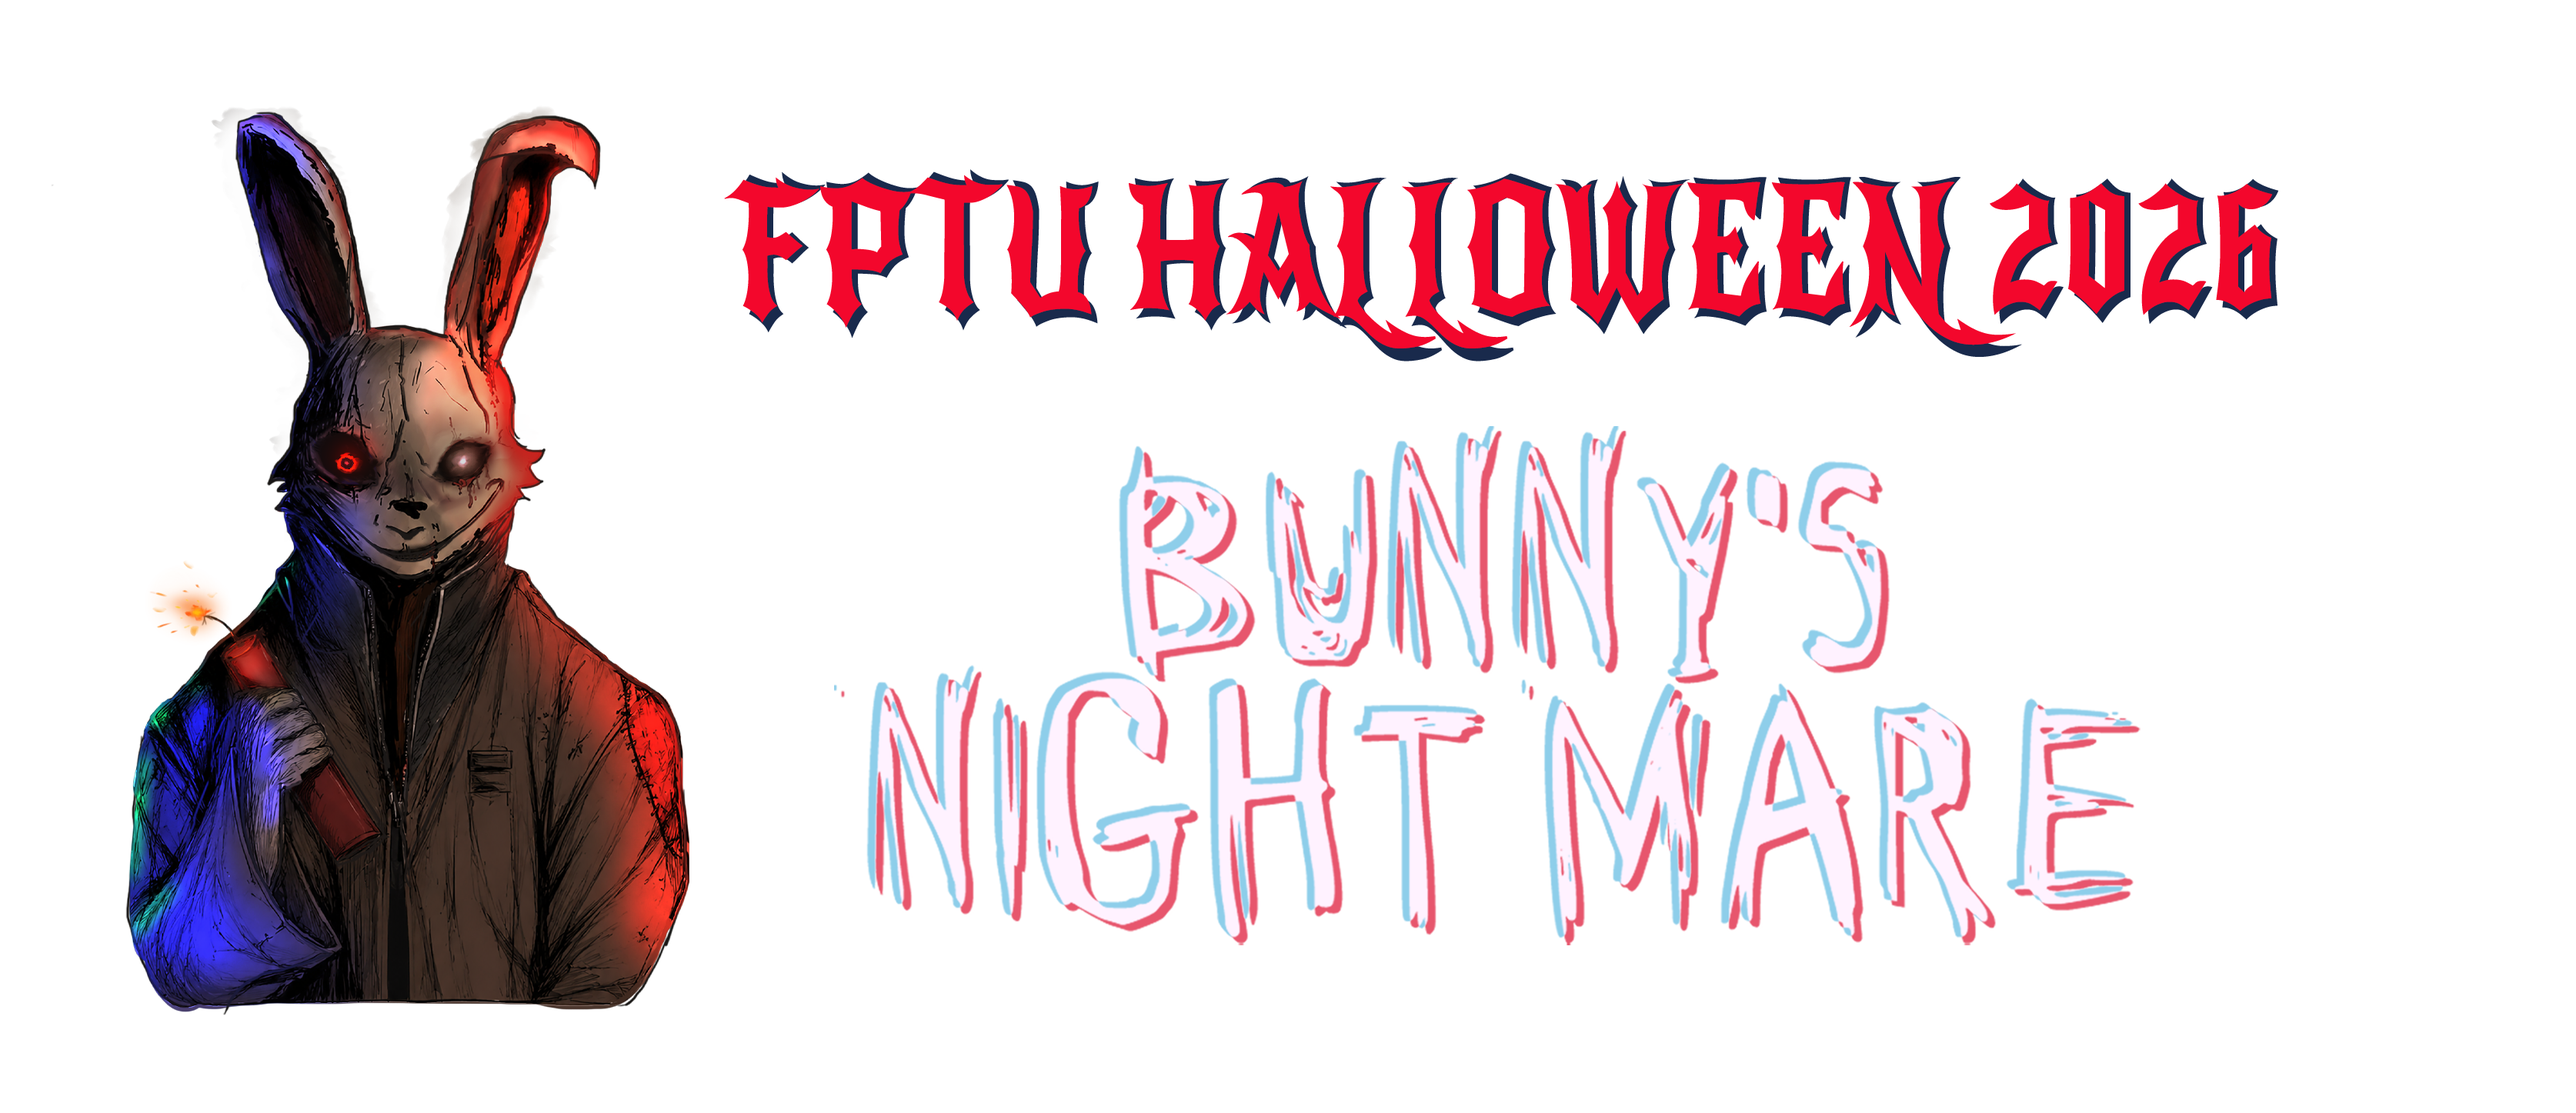
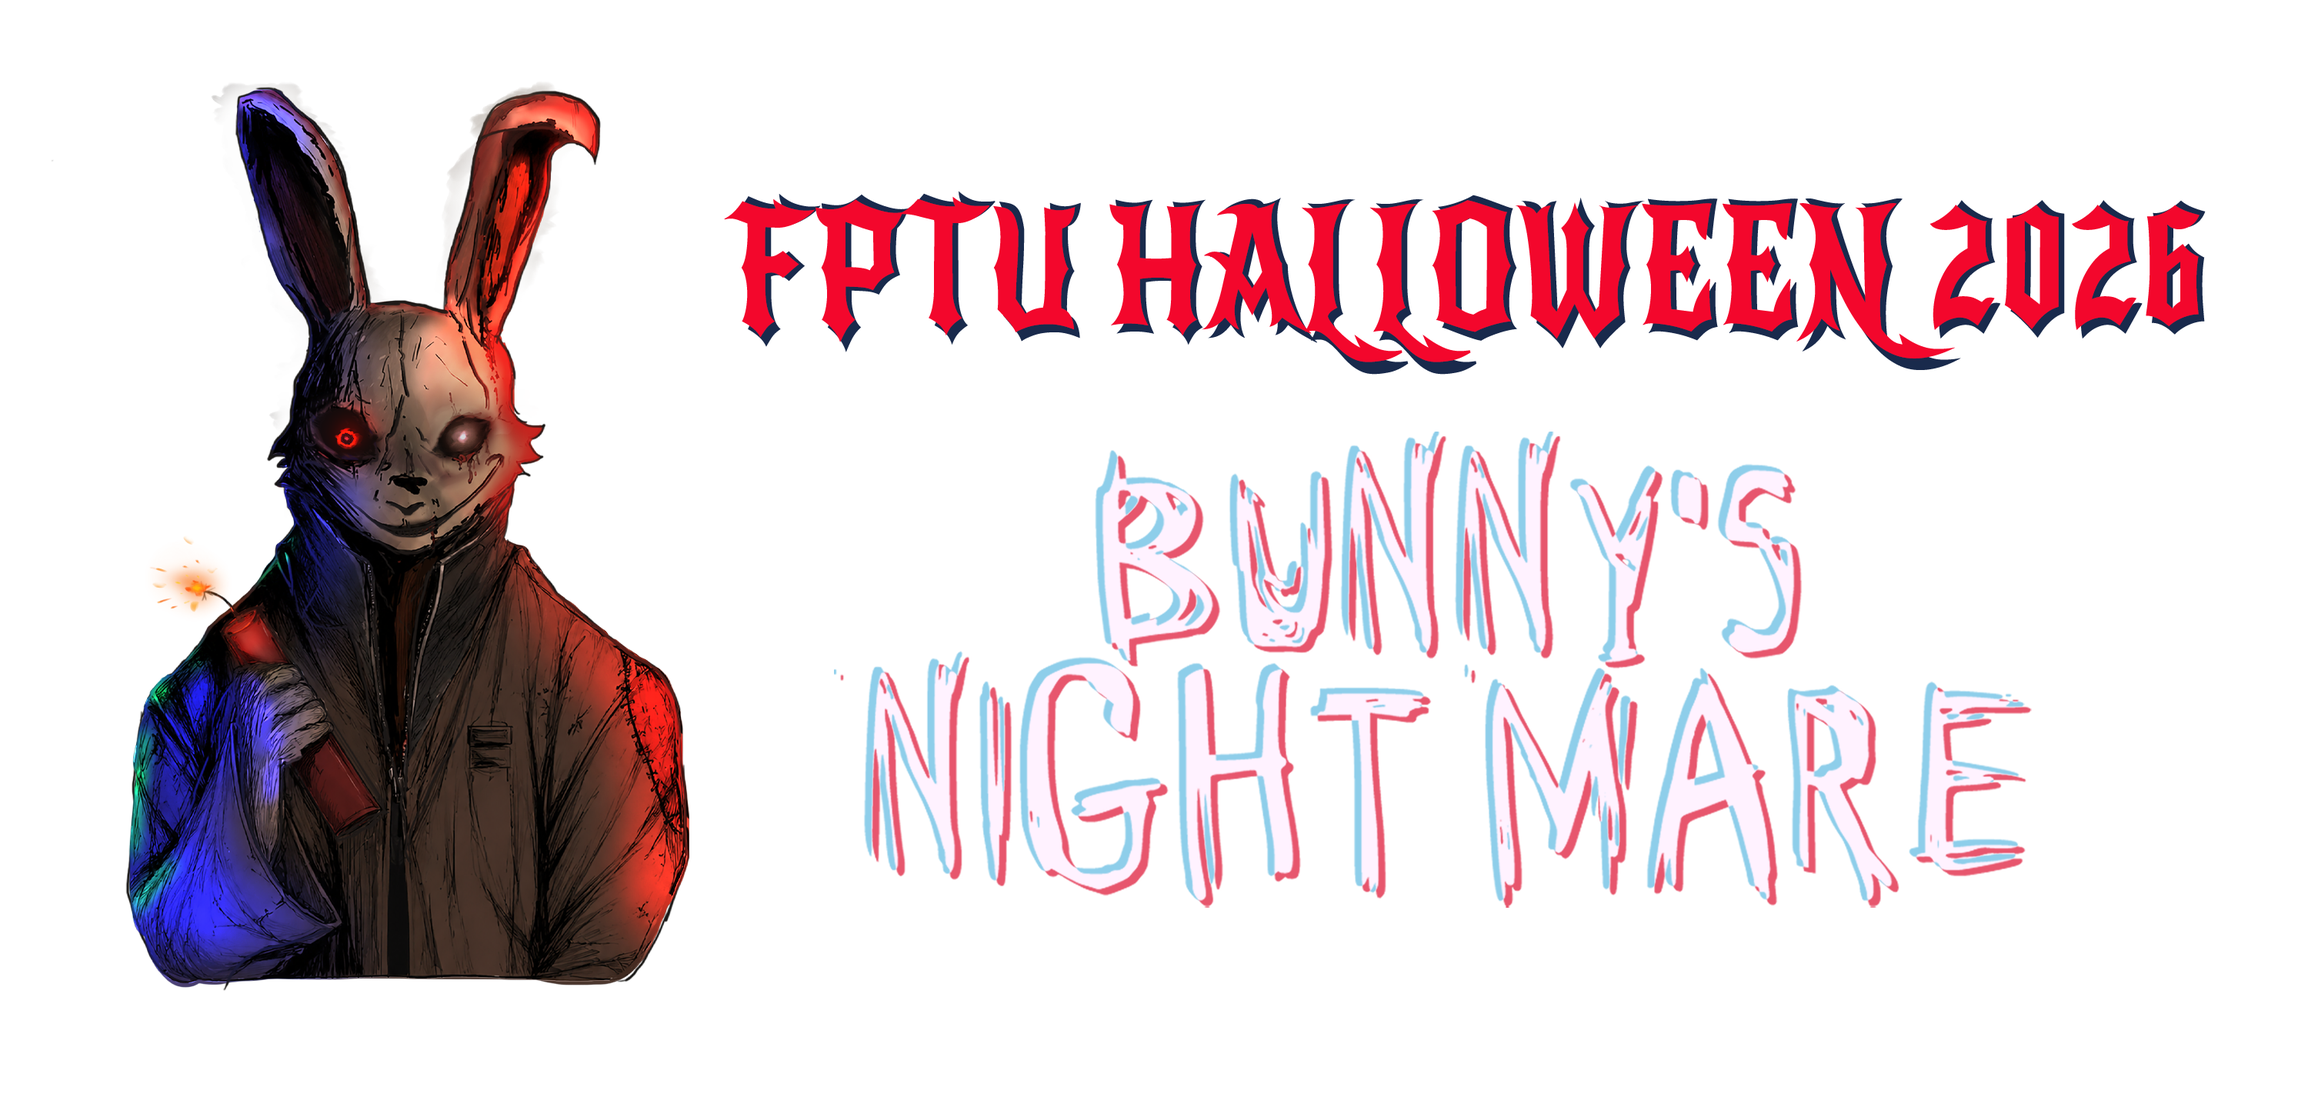
fix: website UI

Changed region(s): [[0.031, 0.0617, 0.899, 0.9257], [0.279, 0.1543, 0.961, 0.3394]]

diff --git a/frontend/src/pages/Normal/HomePage.jsx b/frontend/src/pages/Normal/HomePage.jsx
@@ -6,7 +6,9 @@ import heroImage from "../../assets/cover-01.png";
 import pdpLogo from "../../assets/pdp_avatar.jpg";
 import fptuLogo from "../../assets/logo fptu.webp";
 import fbgcLogo from "../../assets/fbgc.png";
-import wtmLogo from "../../assets/wtm.png";
+import wtmDarkLogo from "../../assets/wtm.png";
+import wtmLightLogo from "../../assets/wtm_lightmode.png";
+import ThemeAsset from "../../components/ThemeAsset";
 import "./HomePage.scss";
 
 const EVENT_DATE = new Date("2026-10-31T18:00:00+07:00").getTime();
@@ -70,7 +72,7 @@ const sponsors = [
   { key: "pdp", nameKey: "sponsorNames.pdp", image: pdpLogo },
   { key: "fptu", nameKey: "sponsorNames.fptu", image: fptuLogo },
   { key: "fbgc", nameKey: "sponsorNames.fbgc", image: fbgcLogo },
-  { key: "hlw26", nameKey: "sponsorNames.hlw26", image: wtmLogo },
+  { key: "hlw26", nameKey: "sponsorNames.hlw26", image: wtmDarkLogo },
 ];
 
 const countdownItems = [
@@ -315,7 +317,7 @@ export default function HomePage() {
           {sponsors.map((sponsor) => (
             <div className={`home-sponsor home-sponsor--${sponsor.key}`} key={sponsor.key}>
               {sponsor.image ? (
-                <img src={sponsor.image} alt={home("sponsorsAlt", { name: home(sponsor.nameKey) })} />
+                <>{sponsor.key === "hlw26" ? <ThemeAsset lightSrc={wtmLightLogo} darkSrc={wtmDarkLogo} alt={home("sponsorsAlt", { name: home(sponsor.nameKey) })} /> : <img src={sponsor.image} alt={home("sponsorsAlt", { name: home(sponsor.nameKey) })} />}</>
               ) : (
                 <span>{home(sponsor.nameKey)}</span>
               )}

diff --git a/frontend/src/pages/Authentication/ForgotPassword.jsx b/frontend/src/pages/Authentication/ForgotPassword.jsx
@@ -3,7 +3,9 @@ import { Link, useNavigate } from "react-router-dom";
 import toast from "react-hot-toast";
 import { authAPI } from "../../apis/authAPI";
 import { translateError, translateSuccess } from "../../utils/translateResponse";
-import wtmLogo from "../../assets/wtm.png";
+import wtmDarkLogo from "../../assets/wtm.png";
+import wtmLightLogo from "../../assets/wtm_lightmode.png";
+import ThemeAsset from "../../components/ThemeAsset";
 import "./ForgotPassword.scss";
 import { useTranslation } from "react-i18next";
 
@@ -57,7 +59,7 @@ export default function ForgotPassword() {
     <main className="cp-page fp-page">
       <div className="cp-card">
         <div className="cp-card__header">
-          <img className="cp-brand-logo" src={wtmLogo} alt={auth("brandAlt")} />
+          <ThemeAsset lightSrc={wtmLightLogo} darkSrc={wtmDarkLogo} className="cp-brand-logo" alt={auth("brandAlt")} />
           <h1 className="cp-card__title">{step === 0 ? auth("titleEmail") : step === 1 ? auth("titleOtp") : auth("titleReset")}</h1>
           <p className="cp-card__subtitle">{step === 0 ? auth("subtitleEmail") : step === 1 ? auth("subtitleOtp") : auth("subtitleReset")}</p>
         </div>

diff --git a/frontend/src/components/LogoutModal.jsx b/frontend/src/components/LogoutModal.jsx
@@ -1,7 +1,9 @@
 import React from "react";
 import { X } from "lucide-react";
 import { useTranslation } from "react-i18next";
-import wtm from "../assets/wtm.png";
+import wtmDark from "../assets/wtm.png";
+import wtmLight from "../assets/wtm_lightmode.png";
+import ThemeAsset from "./ThemeAsset";
 import "./LogoutModal.css";
 
 function LogoutModal({ isOpen, onClose, onConfirm, title, description, cancelLabel, confirmLabel }) {
@@ -21,7 +23,7 @@ function LogoutModal({ isOpen, onClose, onConfirm, title, description, cancelLab
         <button type="button" className="logout-modal-close" onClick={onClose} aria-label={closeLabel}>
           <X size={22} />
         </button>
-        <img className="logout-modal-logo" src={wtm} alt={componentText("eventBrand")} />
+        <ThemeAsset lightSrc={wtmLight} darkSrc={wtmDark} className="logout-modal-logo" alt={componentText("eventBrand")} />
         <h2 className="logout-modal-title">{resolvedTitle}</h2>
         <p className="logout-modal-desc" dangerouslySetInnerHTML={{ __html: resolvedDescription }} />
         <div className="logout-modal-actions">

diff --git a/frontend/src/components/Footer.jsx b/frontend/src/components/Footer.jsx
@@ -1,7 +1,9 @@
 import { Link } from "react-router-dom";
 import { useTranslation } from "react-i18next";
 import "./Footer.css";
-import wtm from "../assets/wtm.png";
+import wtmDark from "../assets/wtm.png";
+import wtmLight from "../assets/wtm_lightmode.png";
+import ThemeAsset from "./ThemeAsset";
 import EmailIcon from "@mui/icons-material/Email";
 import FacebookIcon from "@mui/icons-material/Facebook";
 import InstagramIcon from "@mui/icons-material/Instagram";
@@ -27,7 +29,7 @@ function Footer() {
         <div className="fpt-footer__grid">
           <div className="fpt-footer__contact-section">
             <Link to="/" aria-label={t("footer.homeAria")}>
-              <img src={wtm} alt={t("footer.logoAlt")} className="fpt-footer__logo" />
+              <ThemeAsset lightSrc={wtmLight} darkSrc={wtmDark} alt={t("footer.logoAlt")} className="fpt-footer__logo" />
             </Link>
             <h3 className="fpt-footer__contact-title">{t("footer.contactInfo")}</h3>
             <div className="fpt-footer__contact-item">

diff --git a/frontend/src/pages/Authentication/Login.jsx b/frontend/src/pages/Authentication/Login.jsx
@@ -3,7 +3,7 @@ import "./Login.css";
 import loginImg from "../../assets/login.png";
 import coverImg from "../../assets/cover-01.png";
 import fbgc from "../../assets/fbgc.png";
-import { Link, useNavigate } from "react-router-dom";
+import { Link, useLocation, useNavigate } from "react-router-dom";
 import { authAPI } from "../../apis/authAPI";
 import toast from "react-hot-toast";
 import {
@@ -22,8 +22,16 @@ function Login() {
   const [googleClient, setGoogleClient] = useState(null);
   const [showPassword, setShowPassword] = useState(false);
   const navigate = useNavigate();
+  const location = useLocation();
   const { t } = useTranslation();
   const auth = (key, options) => t(`auth.login.${key}`, options);
+
+  useEffect(() => {
+    if (!location.state?.authRequired) return;
+
+    toast.error(translateError(new Error("No token provided")));
+    navigate(location.pathname, { replace: true, state: null });
+  }, [location.pathname, location.state, navigate]);
 
   useEffect(() => {
     const initializeGoogle = () => {

diff --git a/frontend/src/pages/Authentication/ChangePassword.jsx b/frontend/src/pages/Authentication/ChangePassword.jsx
@@ -1,6 +1,8 @@
 import { useState } from "react";
 import toast from "react-hot-toast";
-import wtmLogo from "../../assets/wtm.png";
+import wtmDarkLogo from "../../assets/wtm.png";
+import wtmLightLogo from "../../assets/wtm_lightmode.png";
+import ThemeAsset from "../../components/ThemeAsset";
 import { authAPI } from "../../apis/authAPI";
 import { translateError, translateSuccess } from "../../utils/translateResponse";
 import { useTranslation } from "react-i18next";
@@ -108,7 +110,7 @@ export default function ChangePasswordPage() {
       <div className="cp-card">
         {/* Header */}
         <div className="cp-card__header">
-          <img className="cp-brand-logo" src={wtmLogo} alt={auth("brandAlt")} />
+          <ThemeAsset lightSrc={wtmLightLogo} darkSrc={wtmDarkLogo} className="cp-brand-logo" alt={auth("brandAlt")} />
           <h1 className="cp-card__title">
             {isVerified ? auth("enterNew") : auth("verifyOld")}
           </h1>

diff --git a/frontend/src/pages/Normal/HomePage.scss b/frontend/src/pages/Normal/HomePage.scss
@@ -70,8 +70,9 @@
   position: relative;
   display: grid;
   width: 100%;
-  height: 84vh;
-  min-height: 18rem;
+  height: auto;
+  min-height: 0;
+  aspect-ratio: 1475 / 675;
   place-items: center;
   isolation: isolate;
   overflow: hidden;
@@ -81,8 +82,8 @@
 
 .home-hero__image {
   display: block;
-  width: auto;
-  height: auto;
+  width: 100%;
+  height: 100%;
   max-width: 100%;
   max-height: 100%;
   object-fit: contain;
@@ -794,9 +795,9 @@
   .home-hero__image {
     width: 100%;
     height: 100%;
-    max-width: none;
-    max-height: none;
-    object-fit: cover;
+    max-width: 100%;
+    max-height: 100%;
+    object-fit: contain;
     object-position: center center;
   }
 
@@ -846,7 +847,15 @@
 
 @media (max-width: 30rem) {
   .home-hero {
+    height: 16rem;
     min-height: 16rem;
+    aspect-ratio: auto;
+  }
+
+  .home-hero__image {
+    max-width: none;
+    max-height: none;
+    object-fit: cover;
   }
 
   .home-hero__masthead {

diff --git a/frontend/src/components/Navbar.jsx b/frontend/src/components/Navbar.jsx
@@ -1,6 +1,8 @@
 import React, { useState, useEffect, useRef } from "react";
 import "./Navbar.css";
-import wtm from "../assets/wtm.png";
+import wtmDark from "../assets/wtm.png";
+import wtmLight from "../assets/wtm_lightmode.png";
+import ThemeAsset from "./ThemeAsset";
 import Tooltip from "@mui/material/Tooltip";
 import PermIdentityIcon from "@mui/icons-material/PermIdentity";
 import { Link, useNavigate, useLocation } from "react-router-dom"; // Add useLocation import
@@ -227,8 +229,9 @@ function Navbar() {
           <div className="fpt-navbar__content">
             {/* Logo */}
             <div className="fpt-navbar__logo">
-              <img
-                src={wtm}
+              <ThemeAsset
+                lightSrc={wtmLight}
+                darkSrc={wtmDark}
                 onClick={() => navigate("/")}
                 alt={t("components.eventBrand")}
                 className="fpt-navbar__logo-img"

diff --git a/frontend/src/components/ThemeAsset.jsx b/frontend/src/components/ThemeAsset.jsx
@@ -1,0 +1,25 @@
+import "./ThemeAsset.css";
+
+const ThemeAsset = ({ lightSrc, darkSrc, alt = "", className = "", ...props }) => {
+  const sharedClassName = `theme-asset ${className}`.trim();
+
+  return (
+    <>
+      <img
+        {...props}
+        src={lightSrc}
+        alt={alt}
+        className={`${sharedClassName} theme-asset--light`}
+      />
+      <img
+        {...props}
+        src={darkSrc}
+        alt=""
+        aria-hidden="true"
+        className={`${sharedClassName} theme-asset--dark`}
+      />
+    </>
+  );
+};
+
+export default ThemeAsset;

diff --git a/frontend/src/App.jsx b/frontend/src/App.jsx
@@ -190,7 +190,7 @@ function FrontendAccessGuard({ children }) {
 
   const isAuthenticated = Boolean(authSnapshot.token && authSnapshot.user);
   if (!isAuthenticated) {
-    return <Navigate to="/login" state={{ from: location }} replace />;
+    return <Navigate to="/login" state={{ from: location, authRequired: true }} replace />;
   }
 
   if (

diff --git a/frontend/src/pages/Introduce/IntroduceEvent.jsx b/frontend/src/pages/Introduce/IntroduceEvent.jsx
@@ -3,7 +3,6 @@ import { useTranslation } from "react-i18next";
 import "./IntroduceEvent.css";
 
 import cover from "../../assets/cover-01.png";
-import avatar from "../../assets/wtm.png";
 import avatarriel from "../../assets/avatar.jpg";
 
 const page = {

diff --git a/frontend/src/components/ThemeAsset.css b/frontend/src/components/ThemeAsset.css
@@ -1,0 +1,11 @@
+.theme-asset--dark {
+  display: none !important;
+}
+
+:root[data-theme='dark'] .theme-asset--light {
+  display: none !important;
+}
+
+:root[data-theme='dark'] .theme-asset--dark {
+  display: block !important;
+}
